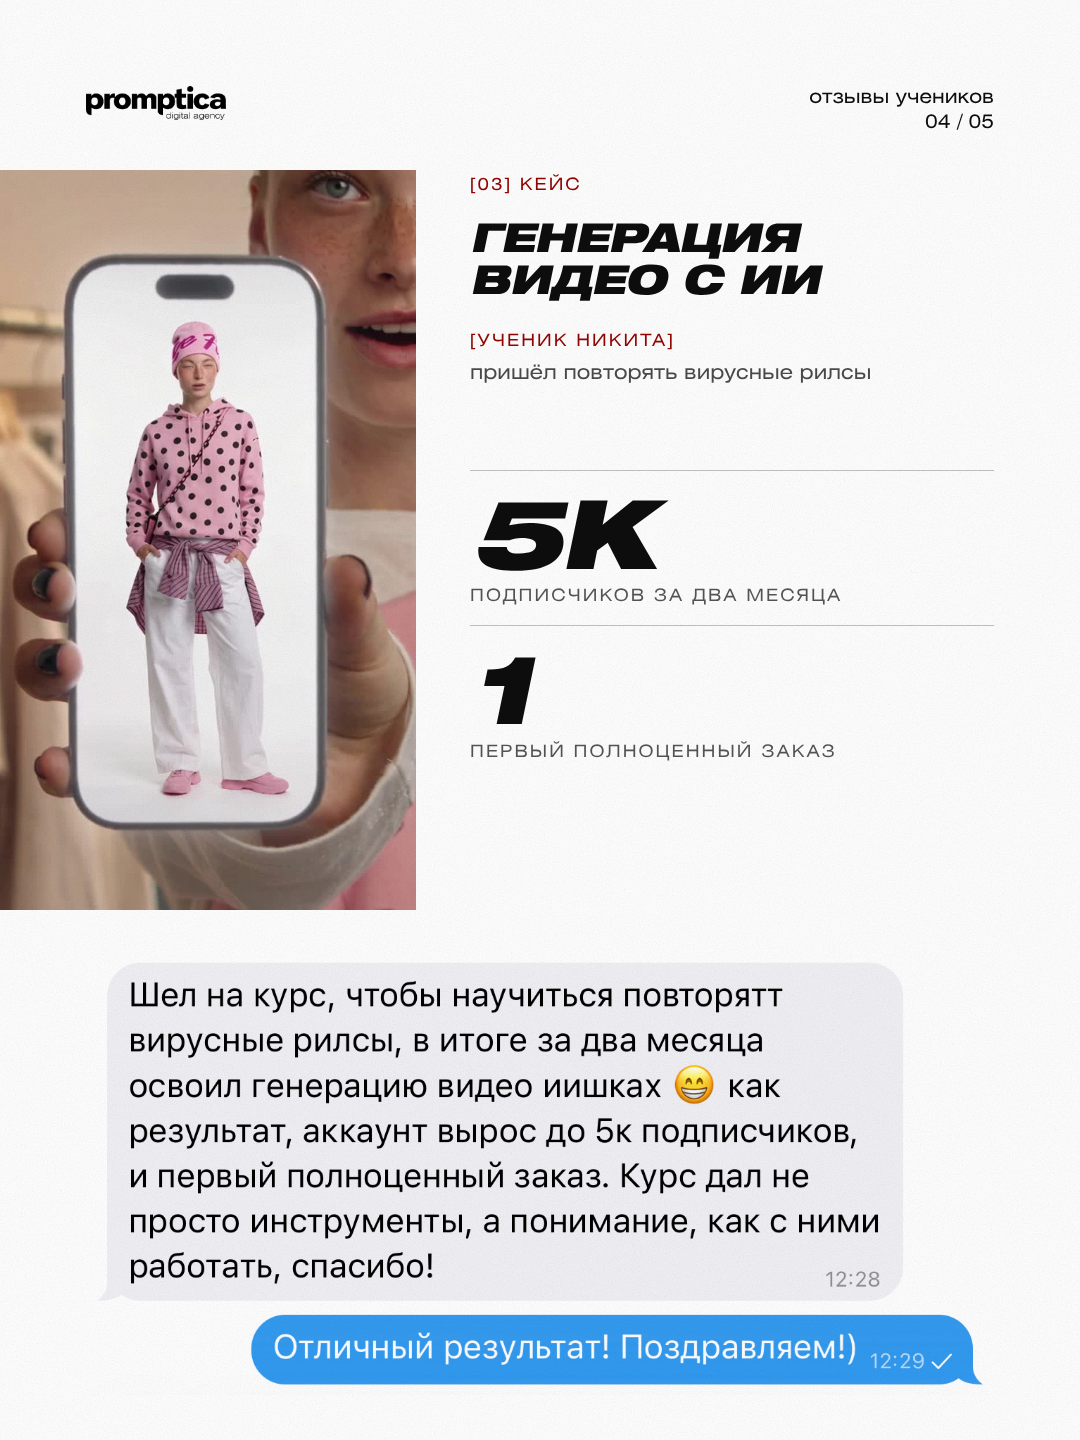
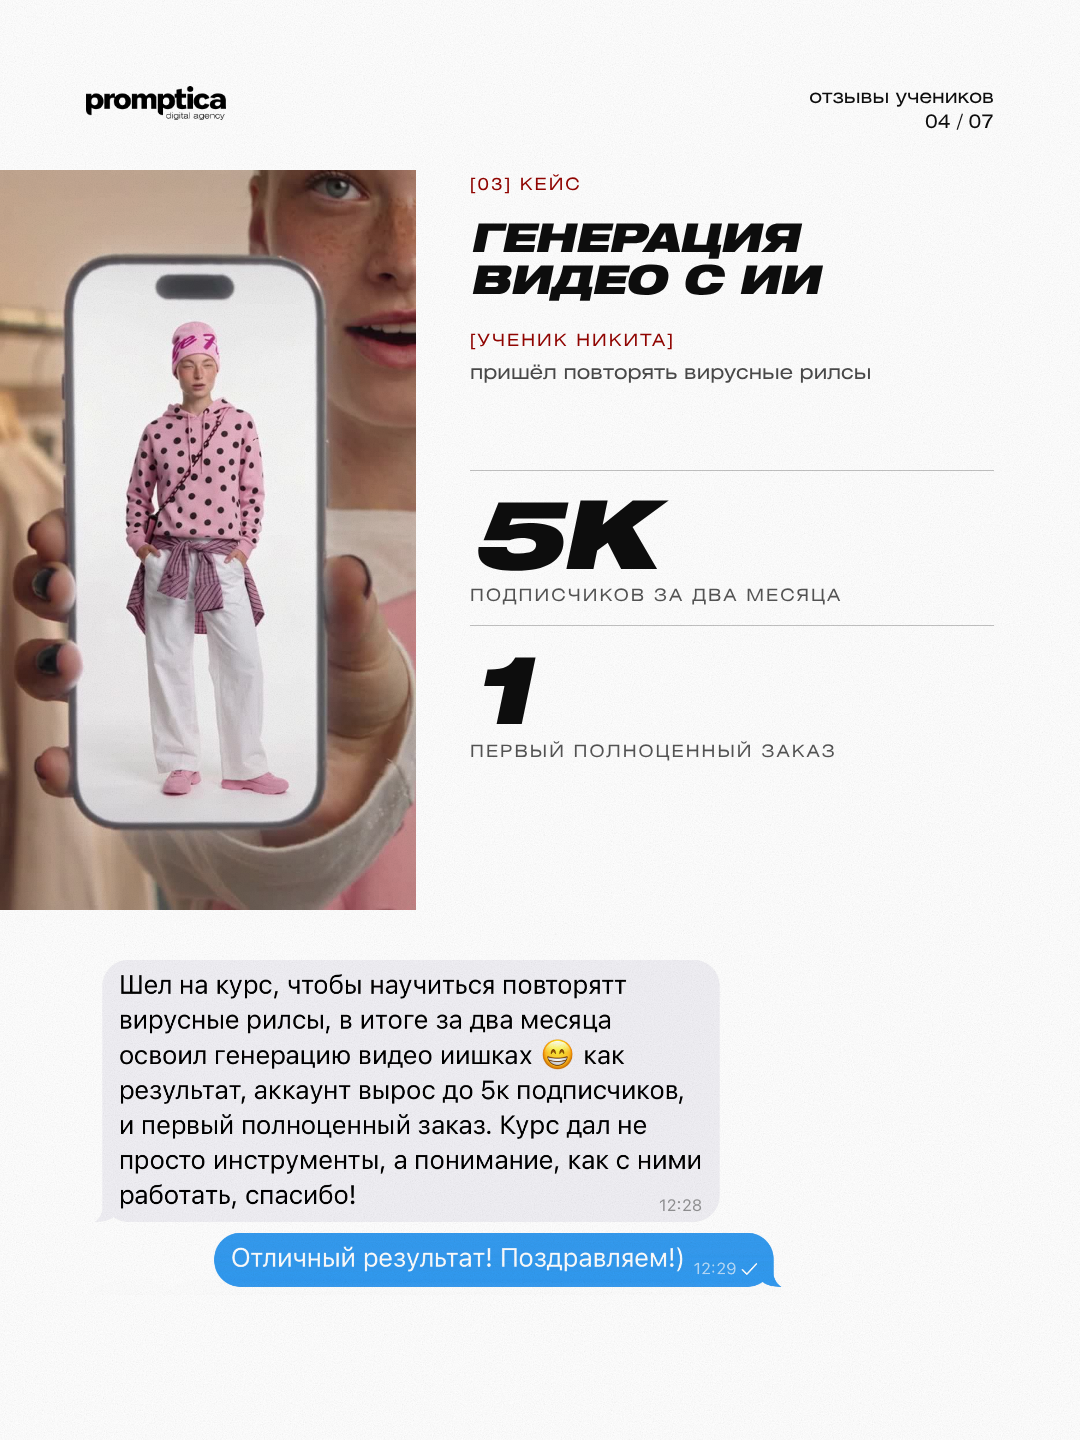
Карусель отзывов: кейсы Анастасии и Ирины, автоподгонка скриншота переписки
Claude-Session: https://claude.ai/code/session_01V1NUh11xrVMcB1cs4GV2qz

Changed region(s): [[0.0917, 0.6562, 0.9167, 0.9688]]

diff --git a/carousels/promptica-reviews-carousel/06.html b/carousels/promptica-reviews-carousel/06.html
@@ -1,0 +1,27 @@
+<!DOCTYPE html>
+<html lang="ru">
+<head>
+  <meta charset="UTF-8">
+  <title>Отзывы учеников — 06</title>
+  <link rel="stylesheet" href="style.css">
+</head>
+<body data-size="1080x1440">
+  <div class="slide ">
+    <div class="ph" style="left:0px;top:170px;width:538px;height:600px"><div class="hn">работа 1</div><img src="img/06-a.jpg" alt="" style="object-position:50% 40%" onerror="this.remove()"></div>
+    <div class="ph" style="left:542px;top:170px;width:538px;height:600px"><div class="hn">работа 2</div><img src="img/06-b.jpg" alt="" style="object-position:50% 40%" onerror="this.remove()"></div>
+    <div class="abs lbl br" style="left:86px;top:812px">[05] кейс</div>
+    <div class="abs name" style="left:86px;top:852px;width:908px;font-size:40px;line-height:1.05">Визуалы для проектов<br>за пару часов</div>
+    <div class="abs mrow" style="left:86px;top:974px;width:908px"><span class="br">[ученица Ирина]</span><span style="opacity:.7">SMM, ведёт несколько проектов</span></div>
+    <div class="abs" style="left:86px;top:1040px;width:908px"><img src="img/06-chat.png" alt="" style="width:695px;display:block"></div>
+    <div class="hd"><img src="../../assets/logo_black.png" alt="promptica"></div>
+    <div class="mt">отзывы учеников<br>06 / 07</div>
+    <svg class="grain"><filter id="g"><feTurbulence type="fractalNoise" baseFrequency=".9" numOctaves="3" seed="6" stitchTiles="stitch"/><feColorMatrix type="saturate" values="0"/></filter><rect width="100%" height="100%" filter="url(#g)"/></svg>
+  </div>
+<script>
+Promise.all([document.fonts.load("100px 'HN Black Ext'"), document.fonts.load("30px 'Playfair'"), document.fonts.load("20px 'Helios Ext'"), document.fonts.ready]).then(() => {
+  document.querySelectorAll('[data-fit]').forEach(el => { el.style.fontSize = '100px'; el.style.fontSize = (100 * parseFloat(el.dataset.fit) / el.getBoundingClientRect().width) + 'px'; });
+  document.querySelectorAll('[data-box]').forEach(el => { const max = parseFloat(el.dataset.max || 46), h = parseFloat(el.dataset.box); let fs = max; el.style.fontSize = fs + 'px'; while (el.scrollHeight > h && fs > 22) { fs -= 1; el.style.fontSize = fs + 'px'; } });
+});
+</script>
+</body>
+</html>

diff --git a/carousels/promptica-reviews-carousel/05.html b/carousels/promptica-reviews-carousel/05.html
@@ -6,13 +6,14 @@
   <link rel="stylesheet" href="style.css">
 </head>
 <body data-size="1080x1440">
-  <div class="slide red">
-    <div class="abs" style="left:86px;top:300px;width:908px"><div class="fit" data-fit="908" style="color:var(--cream)">Хочешь<br>так же?</div></div>
-    <div class="abs mrow" style="left:86px;top:600px;width:908px;color:var(--cream)"><span>курс [нейросети с нуля]</span><span>запись открыта</span></div>
-    <div class="abs hair" style="left:86px;top:690px;width:908px;color:var(--cream)"></div>
-    <div class="abs" style="left:86px;top:730px;width:760px;font-size:34px;line-height:1.38;color:var(--cream)">Напиши слово «КУРС» в комментариях, и мы пришлём программу.</div>
-    <div class="hd"><img src="../../assets/logo_cream.png" alt="promptica"></div>
-    <div class="mt" style="color:#fff7e6">отзывы учеников<br>05 / 05</div>
+  <div class="slide ">
+    <div class="ph" style="left:0px;top:170px;width:1080px;height:600px"><div class="hn">работа ученицы</div><img src="img/05-a.jpg" alt="" style="object-position:50% 50%" onerror="this.remove()"></div>
+    <div class="abs lbl br" style="left:86px;top:812px">[04] кейс</div>
+    <div class="abs name" style="left:86px;top:852px;width:908px;font-size:40px;line-height:1.05">Нейрофото<br>для себя и блога</div>
+    <div class="abs mrow" style="left:86px;top:974px;width:908px"><span class="br">[ученица Анастасия]</span><span style="opacity:.7">до курса получался «иишный ужас»</span></div>
+    <div class="abs" style="left:86px;top:1040px;width:908px"><img src="img/05-chat.png" alt="" style="width:784px;display:block"></div>
+    <div class="hd"><img src="../../assets/logo_black.png" alt="promptica"></div>
+    <div class="mt">отзывы учеников<br>05 / 07</div>
     <svg class="grain"><filter id="g"><feTurbulence type="fractalNoise" baseFrequency=".9" numOctaves="3" seed="5" stitchTiles="stitch"/><feColorMatrix type="saturate" values="0"/></filter><rect width="100%" height="100%" filter="url(#g)"/></svg>
   </div>
 <script>

diff --git a/carousels/promptica-reviews-carousel/07.html b/carousels/promptica-reviews-carousel/07.html
@@ -1,0 +1,25 @@
+<!DOCTYPE html>
+<html lang="ru">
+<head>
+  <meta charset="UTF-8">
+  <title>Отзывы учеников — 07</title>
+  <link rel="stylesheet" href="style.css">
+</head>
+<body data-size="1080x1440">
+  <div class="slide red">
+    <div class="abs" style="left:86px;top:300px;width:908px"><div class="fit" data-fit="908" style="color:var(--cream)">Хочешь<br>так же?</div></div>
+    <div class="abs mrow" style="left:86px;top:600px;width:908px;color:var(--cream)"><span>курс [нейросети с нуля]</span><span>запись открыта</span></div>
+    <div class="abs hair" style="left:86px;top:690px;width:908px;color:var(--cream)"></div>
+    <div class="abs" style="left:86px;top:730px;width:760px;font-size:34px;line-height:1.38;color:var(--cream)">Напиши слово «КУРС» в комментариях, и мы пришлём программу.</div>
+    <div class="hd"><img src="../../assets/logo_cream.png" alt="promptica"></div>
+    <div class="mt" style="color:#fff7e6">отзывы учеников<br>07 / 07</div>
+    <svg class="grain"><filter id="g"><feTurbulence type="fractalNoise" baseFrequency=".9" numOctaves="3" seed="7" stitchTiles="stitch"/><feColorMatrix type="saturate" values="0"/></filter><rect width="100%" height="100%" filter="url(#g)"/></svg>
+  </div>
+<script>
+Promise.all([document.fonts.load("100px 'HN Black Ext'"), document.fonts.load("30px 'Playfair'"), document.fonts.load("20px 'Helios Ext'"), document.fonts.ready]).then(() => {
+  document.querySelectorAll('[data-fit]').forEach(el => { el.style.fontSize = '100px'; el.style.fontSize = (100 * parseFloat(el.dataset.fit) / el.getBoundingClientRect().width) + 'px'; });
+  document.querySelectorAll('[data-box]').forEach(el => { const max = parseFloat(el.dataset.max || 46), h = parseFloat(el.dataset.box); let fs = max; el.style.fontSize = fs + 'px'; while (el.scrollHeight > h && fs > 22) { fs -= 1; el.style.fontSize = fs + 'px'; } });
+});
+</script>
+</body>
+</html>

diff --git a/carousels/promptica-reviews-carousel/04.html b/carousels/promptica-reviews-carousel/04.html
@@ -12,9 +12,9 @@
     <div class="abs name" style="left:470px;top:216px;width:524px;font-size:40px;line-height:1.05">Генерация<br>видео с ИИ</div>
     <div class="abs" style="left:470px;top:332px;width:524px"><div class="br lbl" style="font-size:17px">[ученик Никита]</div><div class="res" style="margin-top:8px;opacity:.75">пришёл повторять вирусные рилсы</div></div>
     <div class="abs" style="left:470px;top:470px;width:524px"><div style="padding:18px 0;border-top:1px solid rgba(13,13,13,.25)"><div style="font-family:'HN Black Ext',sans-serif;font-size:96px;line-height:.9;letter-spacing:-0.03em">5K</div><div class="lbl" style="margin-top:12px;opacity:.7">подписчиков за два месяца</div></div><div style="padding:18px 0;border-top:1px solid rgba(13,13,13,.25)"><div style="font-family:'HN Black Ext',sans-serif;font-size:96px;line-height:.9;letter-spacing:-0.03em">1</div><div class="lbl" style="margin-top:12px;opacity:.7">первый полноценный заказ</div></div></div>
-    <div class="abs" style="left:86px;top:950px;width:908px"><img src="img/04-chat.png" alt="" style="width:908px;display:block"></div>
+    <div class="abs" style="left:86px;top:950px;width:908px"><img src="img/04-chat.png" alt="" style="width:704px;display:block"></div>
     <div class="hd"><img src="../../assets/logo_black.png" alt="promptica"></div>
-    <div class="mt">отзывы учеников<br>04 / 05</div>
+    <div class="mt">отзывы учеников<br>04 / 07</div>
     <script>
     // покадровая подмена кадров видео (для render-video.js); в обычном экспорте остаётся постер
     const FR = '04-frames', N = 361, FPS = 24, vid = document.getElementById('vid');

diff --git a/carousels/promptica-reviews-carousel/02.html b/carousels/promptica-reviews-carousel/02.html
@@ -12,9 +12,9 @@
     <div class="abs lbl br" style="left:86px;top:812px">[01] кейс</div>
     <div class="abs name" style="left:86px;top:852px;width:908px;font-size:40px;line-height:1.05">ИИ-фотосессия<br>для бренда украшений</div>
     <div class="abs mrow" style="left:86px;top:974px;width:908px"><span class="br">[ученица Ангелина]</span><span style="opacity:.7">пришла, ранее не работая с ИИ</span></div>
-    <div class="abs" style="left:86px;top:1040px;width:908px"><img src="img/02-chat.png" alt="" style="width:908px;display:block"></div>
+    <div class="abs" style="left:86px;top:1040px;width:908px"><img src="img/02-chat.png" alt="" style="width:847px;display:block"></div>
     <div class="hd"><img src="../../assets/logo_black.png" alt="promptica"></div>
-    <div class="mt">отзывы учеников<br>02 / 05</div>
+    <div class="mt">отзывы учеников<br>02 / 07</div>
     <svg class="grain"><filter id="g"><feTurbulence type="fractalNoise" baseFrequency=".9" numOctaves="3" seed="2" stitchTiles="stitch"/><feColorMatrix type="saturate" values="0"/></filter><rect width="100%" height="100%" filter="url(#g)"/></svg>
   </div>
 <script>

diff --git a/carousels/promptica-reviews-carousel/03.html b/carousels/promptica-reviews-carousel/03.html
@@ -11,9 +11,9 @@
     <div class="abs lbl br" style="left:86px;top:812px">[02] кейс</div>
     <div class="abs name" style="left:86px;top:852px;width:908px;font-size:40px;line-height:1.05">Финальный проект:<br>съёмка обуви с ИИ</div>
     <div class="abs mrow" style="left:86px;top:974px;width:908px"><span class="br">[ученица Каролина]</span><span style="opacity:.7">пришла с нулевыми знаниями</span></div>
-    <div class="abs" style="left:86px;top:1040px;width:908px"><img src="img/03-chat.png" alt="" style="width:908px;display:block"></div>
+    <div class="abs" style="left:86px;top:1040px;width:908px"><img src="img/03-chat.png" alt="" style="width:804px;display:block"></div>
     <div class="hd"><img src="../../assets/logo_black.png" alt="promptica"></div>
-    <div class="mt">отзывы учеников<br>03 / 05</div>
+    <div class="mt">отзывы учеников<br>03 / 07</div>
     <svg class="grain"><filter id="g"><feTurbulence type="fractalNoise" baseFrequency=".9" numOctaves="3" seed="3" stitchTiles="stitch"/><feColorMatrix type="saturate" values="0"/></filter><rect width="100%" height="100%" filter="url(#g)"/></svg>
   </div>
 <script>

diff --git a/carousels/promptica-reviews-carousel/01.html b/carousels/promptica-reviews-carousel/01.html
@@ -10,7 +10,7 @@
     <div class="ph" style="left:0;top:0;width:1080px;height:900px"><div class="hn">обложка: крупный план</div><img src="img/01-a.jpg" alt="" style="object-position:50% 30%" onerror="this.remove()"></div>
     <div class="vert" style="right:44px;top:560px">promptica.digital agency</div>
     <div class="abs" style="left:86px;top:960px;width:908px"><div class="fit" data-fit="908">Отзывы<br>учеников</div></div>
-    <div class="abs mrow" style="left:86px;top:1232px;width:908px"><span>курс <b class="br" style="font-weight:400">[нейросети с нуля]</b></span><span>01 / 05 · листай →</span></div>
+    <div class="abs mrow" style="left:86px;top:1232px;width:908px"><span>курс <b class="br" style="font-weight:400">[нейросети с нуля]</b></span><span>01 / 07 · листай →</span></div>
     <svg class="grain"><filter id="g"><feTurbulence type="fractalNoise" baseFrequency=".9" numOctaves="3" seed="1" stitchTiles="stitch"/><feColorMatrix type="saturate" values="0"/></filter><rect width="100%" height="100%" filter="url(#g)"/></svg>
   </div>
 <script>

diff --git a/carousels/promptica-reviews-carousel/build.py b/carousels/promptica-reviews-carousel/build.py
@@ -2,6 +2,7 @@
 Раскладки (layout): chat — 2 фото + заголовок + скрин переписки; photo — 1–2 фото + заголовок + текст отзыва; quote — чистый отзыв.
 Слайды: 01 обложка, 02… кейсы по порядку, последний — призыв. Номера «NN / TT» считаются сами."""
 import json, os, glob, sys
+from PIL import Image
 here = os.path.dirname(os.path.abspath(__file__)); os.chdir(here)
 data = json.load(open(sys.argv[1] if len(sys.argv) > 1 else 'cases.json', encoding='utf-8'))
 cases = data['cases']; TOTAL = len(cases) + 2
@@ -35,6 +36,11 @@ def page(n, body, cls=''):
 ''')
 def ph(x, y, w, h, p, k=0):
     return f'    <div class="ph" style="left:{x}px;top:{y}px;width:{w}px;height:{h}px"><div class="hn">{p.get("hint","фото")}</div><img src="img/{p["file"]}" alt="" style="object-position:{p.get("pos","50% 40%")}" onerror="this.remove()"></div>'
+
+def chat_w(fn, top, bottom=1385, maxw=908):
+    """ширина скрина переписки: целиком в 908 px, а если не помещается по высоте — уже"""
+    w, h = Image.open('img/' + fn).size
+    return min(maxw, int((bottom - top) * w / h))
 def photos(ps, y, h):
     if len(ps) == 1: return ph(0, y, 1080, h, ps[0])
     return ph(0, y, 538, h, ps[0]) + '\n' + ph(542, y, 538, h, ps[1])
@@ -54,7 +60,7 @@ for i, c in enumerate(cases, start=1):
         c['y'] = 812
         page(n, f'''{photos(c['photos'], 170, 600)}
 {meta(i, c)}
-    <div class="abs" style="left:86px;top:1040px;width:908px"><img src="img/{c['chat']}" alt="" style="width:908px;display:block"></div>
+    <div class="abs" style="left:86px;top:1040px;width:908px"><img src="img/{c['chat']}" alt="" style="width:{chat_w(c['chat'],1040)}px;display:block"></div>
     {head(n)}''')
     elif L == 'photo':
         c['y'] = 812
@@ -69,7 +75,7 @@ for i, c in enumerate(cases, start=1):
     <div class="abs name" style="left:470px;top:216px;width:524px;font-size:40px;line-height:1.05">{c['title']}</div>
     <div class="abs" style="left:470px;top:332px;width:524px"><div class="br lbl" style="font-size:17px">[{c['name']}]</div><div class="res" style="margin-top:8px;opacity:.75">{c.get('note','')}</div></div>
     <div class="abs" style="left:470px;top:470px;width:524px">{st}</div>
-    <div class="abs" style="left:86px;top:950px;width:908px"><img src="img/{c['chat']}" alt="" style="width:908px;display:block"></div>
+    <div class="abs" style="left:86px;top:950px;width:908px"><img src="img/{c['chat']}" alt="" style="width:{chat_w(c['chat'],1040)}px;display:block"></div>
     {head(n)}
     <script>
     // покадровая подмена кадров видео (для render-video.js); в обычном экспорте остаётся постер
